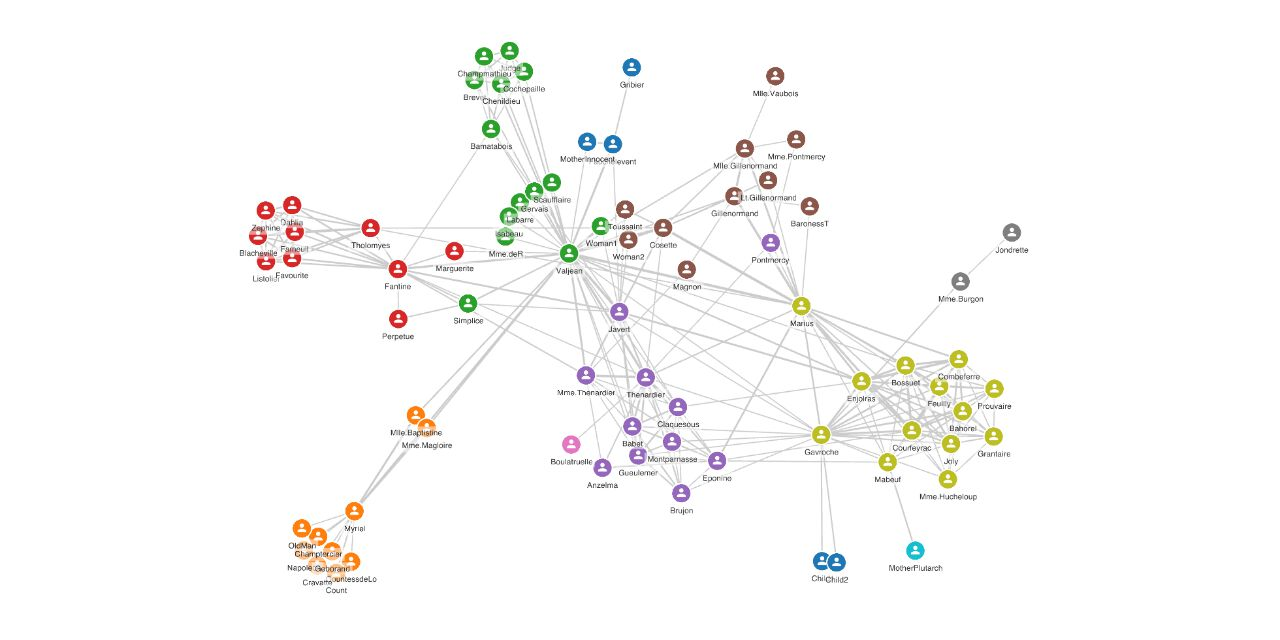
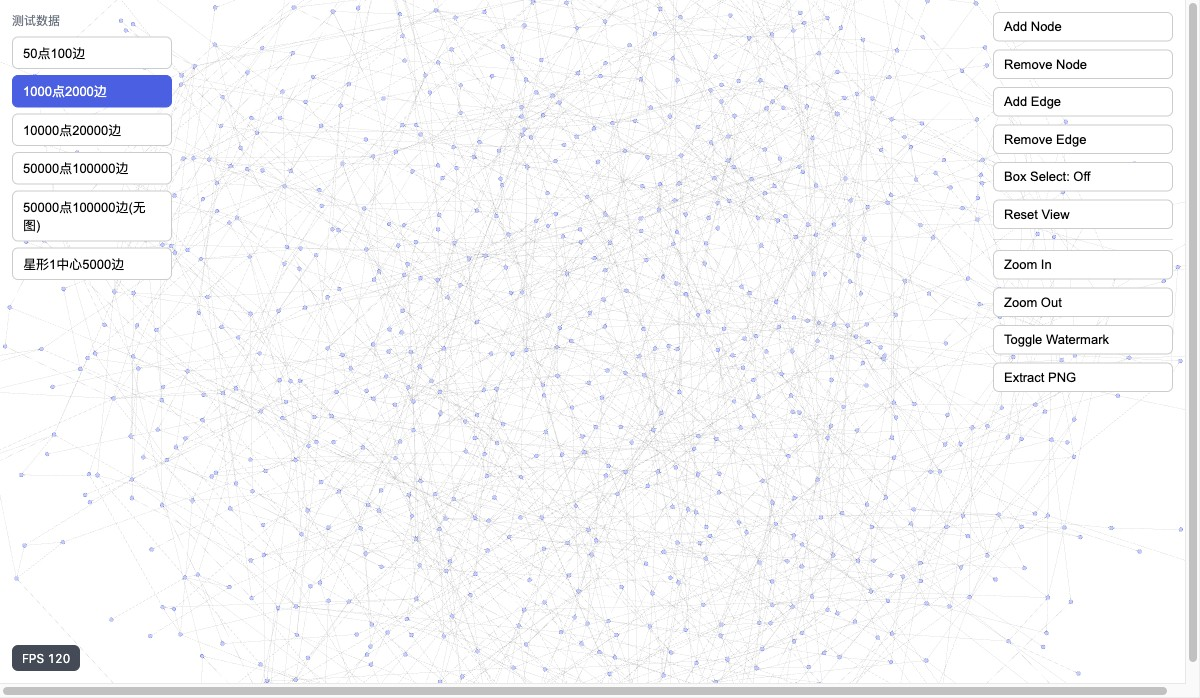
文档: 按合并后的 v3 重写 README，并新增本地中等规模预览 demo
- README 同步最新模块化架构、完整公开 API、依赖与高性能说明
- demo 普通预览默认改为中等规模数据集（1000 点 / 2000 边）
- 去掉失效的上游在线演示链接，改为本地 npm run dev 预览
- 用本地 demo 真实截图替换上游旧截图

diff --git a/demo/main.ts b/demo/main.ts
@@ -8,6 +8,8 @@ import { hideLoading, nextFrame, setProgress, showError, stage } from './loading
 import { hoverStyle, style } from './style';
 
 const BENCHMARK_DEFAULT_DATASET = 'data-50000-100000';
+// 普通预览默认用中等规模数据：1000 点 2000 边，秒级加载又能真实展示渲染/交互效果。
+const PREVIEW_DEFAULT_DATASET = 'data-1000-2000';
 
 function isBenchmarkMode(): boolean {
   const params = new URLSearchParams(location.search);
@@ -16,7 +18,7 @@ function isBenchmarkMode(): boolean {
 
 async function main() {
   const bench = isBenchmarkMode();
-  const activeKey = resolveActiveKey(bench ? BENCHMARK_DEFAULT_DATASET : undefined);
+  const activeKey = resolveActiveKey(bench ? BENCHMARK_DEFAULT_DATASET : PREVIEW_DEFAULT_DATASET);
   renderDatasetButtons(activeKey);
   startFpsMeter(document.getElementById('fps')!);
 

diff --git a/README.md b/README.md
@@ -1,23 +1,31 @@
 # pixi-graph
 
 [![](https://img.shields.io/npm/dm/pixi-graph)](https://www.npmjs.com/package/pixi-graph)
-[![](https://img.shields.io/david/zakjan/pixi-graph)](https://www.npmjs.com/package/pixi-graph)
 [![](https://img.shields.io/bundlephobia/min/pixi-graph)](https://www.npmjs.com/package/pixi-graph)
 
-基于 [PIXI.js](https://www.pixijs.com/) 和 [Graphology](https://graphology.github.io/) 的图可视化库。
+基于 [PIXI.js](https://www.pixijs.com/) **v8** 和 [Graphology](https://graphology.github.io/) 的高性能图可视化库，把图渲染到 WebGL/WebGPU 画布上。
 
-> ⚠ 本仓库是 [`zakjan/pixi-graph`](https://github.com/zakjan/pixi-graph) 的深度定制分支，在上游基础上新增了水印、框选、箭头/边标签、高性能模式、空格拖拽、双击等特性，API 与上游已有较大差异。仍处于演进中，后续可能引入破坏性变更，请自行评估风险后使用。
+> ⚠ 本仓库是 [`zakjan/pixi-graph`](https://github.com/zakjan/pixi-graph) 的深度定制分支，在上游基础上新增了水印、框选、箭头/边标签、高性能模式、空格拖拽、双击、图片导出等特性，API 与上游已有较大差异。仍处于演进中，后续可能引入破坏性变更，请自行评估风险后使用。
 
-[在线演示](https://zakjan.github.io/pixi-graph/)
+## 本地预览
 
-<img src="demo/screenshot@2x.jpg" alt="Screenshot" width="640" height="320">
+仓库自带一个本地交互式 demo（无需任何在线服务）。克隆后：
 
-> **v2** 基于 **PIXI.js v8**，以 ESM 形式发布（同时提供 UMD 包）。`pixi.js`、`pixi-viewport`、`graphology` 是 peer/运行时依赖，由你的打包器统一去重。由于渲染器是异步初始化的，请使用 `PixiGraph.create()` 工厂方法来构造。
+```
+npm install
+npm run dev          # 打开 http://localhost:5173
+```
+
+默认加载**中等规模**数据集（1000 点 / 2000 边），秒级加载即可看到渲染与交互效果；左侧可一键切换 50 点～50000 点等不同规模，右侧面板可试用增删节点/边、框选、缩放、重置视图、水印、导出 PNG，左下角显示实时 FPS。
+
+<img src="demo/screenshot@2x.jpg" alt="本地预览 demo" width="640">
+
+> **v2** 基于 **PIXI.js v8**，以 ESM 形式发布（同时提供 UMD 包）。`pixi.js`、`pixi-viewport`、`color-rgba`、`eventemitter3` 已作为运行时依赖打入产物；`graphology` / `graphology-types` 为 peer 依赖，由你的打包器统一去重。由于 PIXI v8 的渲染器是**异步初始化**的，请使用 `PixiGraph.create()` 工厂方法来构造。
 
 ## 安装
 
 ```
-npm install pixi-graph pixi.js pixi-viewport graphology
+npm install pixi-graph graphology graphology-types
 ```
 
 ## 使用
@@ -40,7 +48,7 @@ const pixiGraph = await PixiGraph.create({
 });
 ```
 
-`PixiGraph.create(options)` 会在 WebGL/WebGPU 渲染器就绪后 resolve。（`new PixiGraph(options)` 也可用，并暴露一个 `ready` Promise。）
+`PixiGraph.create(options)` 会在 WebGL/WebGPU 渲染器就绪后 resolve。（`new PixiGraph(options)` 也可用，并暴露一个 `ready: Promise<this>`；在 `ready` resolve 之前 `viewport`、纹理缓存等字段尚未就绪。）
 
 ### 布局
 
@@ -49,7 +57,10 @@ const pixiGraph = await PixiGraph.create({
 [graphology-layout-forceatlas2](https://github.com/graphology/graphology-layout-forceatlas2) 示例：
 
 ```ts
-const graph = new graphology.Graph();
+import Graph from 'graphology';
+import forceAtlas2 from 'graphology-layout-forceatlas2';
+
+const graph = new Graph();
 // 向 Graphology 图中填充数据
 
 graph.forEachNode(node => {
@@ -107,9 +118,19 @@ const pixiGraph = await PixiGraph.create({ ..., style });
 
 #### 位图字体
 
-将位图字体注册为外部资源。
+标签/图标的文本类型由样式里的 `type` 决定（见 `TextType`）：
+
+- `TextType.TEXT` —— 普通 Canvas/WebGL 文本（默认）。
+- `TextType.BITMAP_TEXT` —— 位图字体文本，适合大量重复文本时降低开销。
+- `TextType.IMAGE` —— 以图片作为内容。
+
+使用位图字体前，请先用 PIXI v8 的 `Assets` 加载好对应的 `.fnt`/`.xml` 位图字体，再在样式中引用其 `fontFamily`：
 
 ```ts
+import { Assets, TextType } from 'pixi.js';
+
+await Assets.load('https://example.com/HelveticaRegular.fnt');
+
 const style = {
   node: {
     label: {
@@ -120,33 +141,21 @@ const style = {
   },
 };
 
-const resources = [
-  { name: 'HelveticaRegular', url: 'https://gist.githubusercontent.com/zakjan/b61c0a26d297edf0c09a066712680f37/raw/8cdda3c21ba3668c3dd022efac6d7f740c9f1e18/HelveticaRegular.fnt' },
-];
-
-const pixiGraph = await PixiGraph.create({ ..., style, resources });
+const pixiGraph = await PixiGraph.create({ ..., style });
 ```
 
 #### 悬停样式
 
-节点/边被悬停时，hover 样式中的值会覆盖基础样式中的值。
+节点/边被悬停时，`hoverStyle` 中的值会覆盖基础 `style` 中的值。
 
 ```ts
 const style = {
-  node: {
-    color: '#000000',
-  },
-  edge: {
-    color: '#000000',
-  },
+  node: { color: '#000000' },
+  edge: { color: '#000000' },
 };
 const hoverStyle = {
-  node: {
-    color: '#ff0000',
-  },
-  edge: {
-    color: '#ff0000',
-  },
+  node: { color: '#ff0000' },
+  edge: { color: '#ff0000' },
 };
 
 const pixiGraph = await PixiGraph.create({ ..., style, hoverStyle });
@@ -156,7 +165,14 @@ const pixiGraph = await PixiGraph.create({ ..., style, hoverStyle });
 
 ## API
 
+### 构造选项
+
 ```ts
+export interface HighPerformanceThreshold {
+  nodeNumber: number;
+  edgeNumber: number;
+}
+
 export interface GraphOptions<NodeAttributes extends BaseNodeAttributes = BaseNodeAttributes, EdgeAttributes extends BaseEdgeAttributes = BaseEdgeAttributes> {
   container: HTMLElement;
   graph: Graphology.AbstractGraph<NodeAttributes, EdgeAttributes>;
@@ -164,10 +180,9 @@ export interface GraphOptions<NodeAttributes extends BaseNodeAttributes = BaseNo
   hoverStyle: GraphStyleDefinition<NodeAttributes, EdgeAttributes>;
   spaceDrag?: boolean;
   dragOffset?: boolean;
-  highPerformance?: { nodeNumber: number; edgeNumber: number };
+  highPerformance?: HighPerformanceThreshold;
   minScale?: number;
   maxScale?: number;
-  resources?: any[];
 }
 
 export class PixiGraph<NodeAttributes extends BaseNodeAttributes = BaseNodeAttributes, EdgeAttributes extends BaseEdgeAttributes = BaseEdgeAttributes> {
@@ -177,22 +192,53 @@ export class PixiGraph<NodeAttributes extends BaseNodeAttributes = BaseNodeAttri
 }
 ```
 
-- `container` - 用作容器的 HTML 元素
-- `graph` - [Graphology](https://graphology.github.io/) 图
-- `style` - 样式定义
-- `hoverStyle` - 悬停状态的附加样式定义
+- `container` —— 用作容器的 HTML 元素，画布会被追加进来并随其尺寸自适应
+- `graph` —— [Graphology](https://graphology.github.io/) 图（节点需要 `x`、`y` 属性；图变更会实时同步到画布）
+- `style` —— 样式定义
+- `hoverStyle` —— 悬停状态的附加样式定义
   - ⚠ 随着其他状态的实现，此处可能变化
-- `spaceDrag` - 仅在按住空格时平移（让普通拖拽可用于框选）
-- `dragOffset` - 拖拽时保持光标与节点的偏移，而非吸附到节点中心
-- `highPerformance` - 节点/边数量超过阈值时，交互期间隐藏边/标签以提升性能
-- `minScale` / `maxScale` - 最小/最大缩放比例（默认 `0.1` / `2`）
-- `resources` - 外部资源定义（目前仅用于外部位图字体）
+- `spaceDrag` —— 仅在按住空格时平移（让普通拖拽可用于框选）
+- `dragOffset` —— 拖拽时保持光标与节点的偏移，而非吸附到节点中心
+- `highPerformance` —— 节点/边数量超过 `{ nodeNumber, edgeNumber }` 阈值时，进入高性能模式：交互（平移/缩放/拖拽）期间隐藏边与节点标签，交互结束后恢复
+- `minScale` / `maxScale` —— 最小/最大缩放比例（默认 `0.1` / `2`）
+
+### 实例方法
+
+视图与缩放：
+
+- `resetView(nodes: string[])` —— 根据给定节点重新计算世界尺寸并居中、铺满视口
+- `zoomIn()` / `zoomOut()` —— 以一档为步长放大/缩小
+- `uncull()` —— 把所有元素重新标记为屏内可见（整图导出前会用到）
+
+可见性与可渲染开关：
+
+- `setNodeVisible(nodeKey, visible)` / `isNodeVisible(nodeKey)`
+- `setEdgeVisible(edgeKey, visible)` / `isEdgeVisible(edgeKey)`
+- `setEdgesRenderable(renderable)` / `setEdgeLabelsRenderable(renderable)`
+- `setNodeLabelsRenderable(renderable)`
+- `setNodeEdgesRenderable(nodeKey, renderable)` —— 单独控制某节点的关联边是否渲染
+
+导出与水印：
+
+- `extract(full?, format?, quality?): Promise<string>` —— 把当前视图导出为 base64 图片（`format` 支持 `'png' | 'jpg' | 'webp'`，默认 `png`/`0.92`）
+- `createWatermark(option): string` / `removeWatermark(name)` / `clearWatermark()`
+
+框选（需配合事件回调使用）：
+
+- `enableAutoSelect(complete, lazy?, realTime?)` —— viewport 内框选，仅在开启 `spaceDrag` 时生效
+- `enableSelect(complete, lazy?, realTime?, onStateChange?)` —— DOM 覆盖层框选（按住 Shift 拖拽，或调用 `pixiGraph.choose.open()`）
+  - 回调收到 `SelectionResult`：`{ nodes: string[]; edges: string[] }`
+  - 也可直接用导出的纯函数 `selectInRectangle` 做命中判定
+
+生命周期：
+
+- `destroy()` —— 注销它添加过的每一个监听（viewport、graph、document、ResizeObserver），销毁纹理与 PIXI 对象
 
 ### 样式定义
 
 `GraphStyle` 接口表示已解析的样式，所有值都是必填的。
 
-`GraphStyleDefinition` 接口允许在任意 key 上使用函数或省略值。函数会被解析，省略的值回退到上一层定义或默认值。
+`GraphStyleDefinition` 接口允许在任意 key 上使用函数或省略值。函数会被解析，省略的值回退到上一层定义或默认值（默认值见 `src/core/constants.ts` 的 `DEFAULT_STYLE`）。
 
 ```ts
 export interface GraphStyle {
@@ -240,29 +286,20 @@ export interface GraphStyleDefinition<NodeAttributes extends BaseNodeAttributes 
 }
 ```
 
-这允许在任意样式层级使用静态样式或数据驱动样式。每个函数只解析一次。
+这允许在任意样式层级使用静态样式或数据驱动样式。每个函数只解析一次，并按属性对象标识 + 悬停状态缓存。
 
 ```ts
+// 静态
 const style = {
-  node: {
-    color: '#000000',
-  },
+  node: { color: '#000000' },
 };
-```
 
-或
-
-```ts
+// 单值函数（数据驱动）
 const style = {
-  node: {
-    color: node => colors[node.group % colors.length],
-  },
+  node: { color: node => colors[node.group % colors.length] },
 };
-```
 
-或
-
-```ts
+// 整段函数
 const style = {
   node: node => {
     const color = colors[node.group % colors.length];
@@ -275,36 +312,60 @@ const style = {
 
 节点事件：
 
-- nodeClick
-- nodeDbclick
-- nodeRightclick
-- nodeMousemove
-- nodeMouseover
-- nodeMouseout
-- nodeMousedown
-- nodeMouseup
-- nodeMoveStart / nodeMove / nodeMoveEnd
+- `nodeClick`、`nodeDbclick`、`nodeRightclick`
+- `nodeMousemove`、`nodeMouseover`、`nodeMouseout`、`nodeMousedown`、`nodeMouseup`
+- `nodeMoveStart` / `nodeMove` / `nodeMoveEnd`（节点拖拽，回调携带 `point`）
 
 ```ts
-pixiGraph.on('nodeClick', (event, nodeKey) => ...);
+pixiGraph.on('nodeClick', (event, nodeKey, nodeStyle) => ...);
 ```
 
 边事件：
 
-- edgeClick
-- edgeDbclick
-- edgeRightclick
-- edgeMousemove
-- edgeMouseover
-- edgeMouseout
-- edgeMousedown
-- edgeMouseup
+- `edgeClick`、`edgeDbclick`、`edgeRightclick`
+- `edgeMousemove`、`edgeMouseover`、`edgeMouseout`、`edgeMousedown`、`edgeMouseup`
 
 ```ts
-pixiGraph.on('edgeClick', (event, edgeKey) => ...);
+pixiGraph.on('edgeClick', (event, edgeKey, edgeStyle) => ...);
 ```
 
 视口事件：`viewportClick`、`viewportRightClick`。
+
+## 高性能架构
+
+面向大图（数万节点/边）的优化分布在几个层次，详见 [`docs/high-performance-architecture.md`](docs/high-performance-architecture.md)：
+
+- **样式层**：把纯对象样式定义编译为可缓存的解析结果，按属性对象标识失效，避免每次变更都递归深合并。
+- **纹理缓存**（`textures/TextureCache.ts`）：节点/标签先以 2× 分辨率烘焙到缓存 `Texture`，再以 `Sprite` 绘制；cache key 必须包含每一个视觉属性。
+- **批量边层**（`renderers/BatchEdgeLayer.ts`）：高性能模式下用批量绘制承载可见边。
+- **空间索引**（`core/SpatialNodeIndex.ts`）：均匀网格索引，让相机移动时只处理可见节点，而非扫描所有显示对象。
+- **脏边调度**（`core/EdgeUpdateScheduler.ts`）：节点位置更新后把关联边标记为脏，每帧合并刷新一次；高性能拖拽期间推迟到交互结束。
+- **LOD 与剔除**：`viewport` `frame-end` 且 dirty 时，把缩放映射到离散 `zoomStep` 桶切换各部分可见性，并剔除屏外元素。
+
+## 架构概览
+
+入口 `src/index.ts` 仅重导出 `PixiGraph` 与各类型。核心逻辑在 `src/PixiGraph.ts`，它持有 PIXI `Application`、`pixi-viewport` 的 `Viewport` 与 PIXI 的 `Culler`，订阅 Graphology 图变更事件保持画布同步，并把具体职责委托给 `controllers/`。
+
+```
+src/
+  PixiGraph.ts            编排核心，对外 API
+  controllers/            从核心拆出的职责：
+    GraphEventController.ts        图事件订阅 → 转发为带类型事件
+    GraphMutationController.ts     增删节点/边、可见性、脏边调度
+    GraphRenderController.ts       图层、LOD、剔除、导出、水印
+    NodeDragController.ts          节点拖拽
+    ViewportInteractionController.ts 平移/缩放/点击
+  elements/               PixiNode / PixiEdge 包装类（持有 Container、重发事件）
+  renderers/              无状态绘制函数：node / nodeLabel / edge / edgeArrow / edgeLabel
+                          + GraphLayers（分层 Container）+ BatchEdgeLayer（批量边）
+  textures/               TextureCache 纹理缓存
+  style/                  样式解析与默认值合并
+  features/               自包含特性：selection（框选）、watermark（水印）、spaceDrag（空格拖拽）
+  core/                   constants、types、空间/并行边索引、脏边调度、图包围盒
+  utils/                  color / text / throttle / validate / pointer
+```
+
+显示层按 z 序加入 viewport：`edgeLayer`、`edgeLabelLayer`、`nodeLabelLayer`、`nodeLayer`；`watermarkLayer` 加在 `app.stage` 索引 0（位于 viewport 之后，不随平移/缩放变化）。
 
 ## 开发
 
@@ -312,16 +373,17 @@ pixiGraph.on('edgeClick', (event, edgeKey) => ...);
 
 ```
 npm run dev        # 在 localhost:5173 启动演示，带热模块替换（HMR）
-npm run build      # 类型检查 + 构建 dist/（ESM + UMD + .d.ts）
-npm test           # 运行单元测试
+npm run build      # tsc --noEmit 类型检查 + 构建 dist/（ESM + UMD + .d.ts）
+npm test           # 运行单元测试（vitest run）
 npm run test:watch # 监听模式
 npm run lint       # eslint + prettier 检查
 npm run format     # prettier 写回
+npm run typecheck  # tsc --noEmit
 ```
 
-演示页（`demo/main.ts`）通过 `pixi-graph` 别名直接引用 `src/` 源码，因此改动源码会经 HMR 立即生效，无需先构建。
+演示页（`demo/main.ts`）通过 `pixi-graph` 别名（见 `vite.config.ts`）直接引用 `src/` 源码，因此改动源码会经 HMR 立即生效，**无需先 `build`**。`dist/` 仅供外部使用者，且被 gitignore。
 
-演示页还提供了测试按钮，可直接验证动态增删节点/边、打开框选、缩放、重置视图，并在左下角显示实时 FPS。
+演示页提供了控制面板，可验证动态增删节点/边、打开框选、缩放、重置视图、导出图片，并在左下角显示实时 FPS。
 
 ### 大图 benchmark
 
@@ -332,9 +394,6 @@ http://localhost:5173/?bench=1&data=data-50000-100000
 ```
 
 `bench=1` 会在 demo 完成加载后自动输出一份 `pixiGraphBenchmark` 报告到控制台和 `window.pixiGraphBenchmark`，覆盖下载/建图/布局/`PixiGraph.create`、框选命中、单节点位置更新、缩放和 uncull 等阶段。它**不会**自动执行 `extract()`，避免 benchmark 本身触发额外的大图离屏渲染。可用 `data=` 切换 `demo/data/*.json` 数据集；不传 `data` 时默认使用 `data-50000-100000`。
-
-
-源码组织结构：`PixiGraph.ts`（编排核心）· `elements/`（PixiNode / PixiEdge 包装类）· `renderers/`（无状态绘制函数）· `textures/`（纹理缓存）· `style/`（样式解析）· `features/`（框选、水印）· `core/`（常量与类型）· `utils/`（颜色、文本、节流等工具）。
 
 ## 赞助
 
